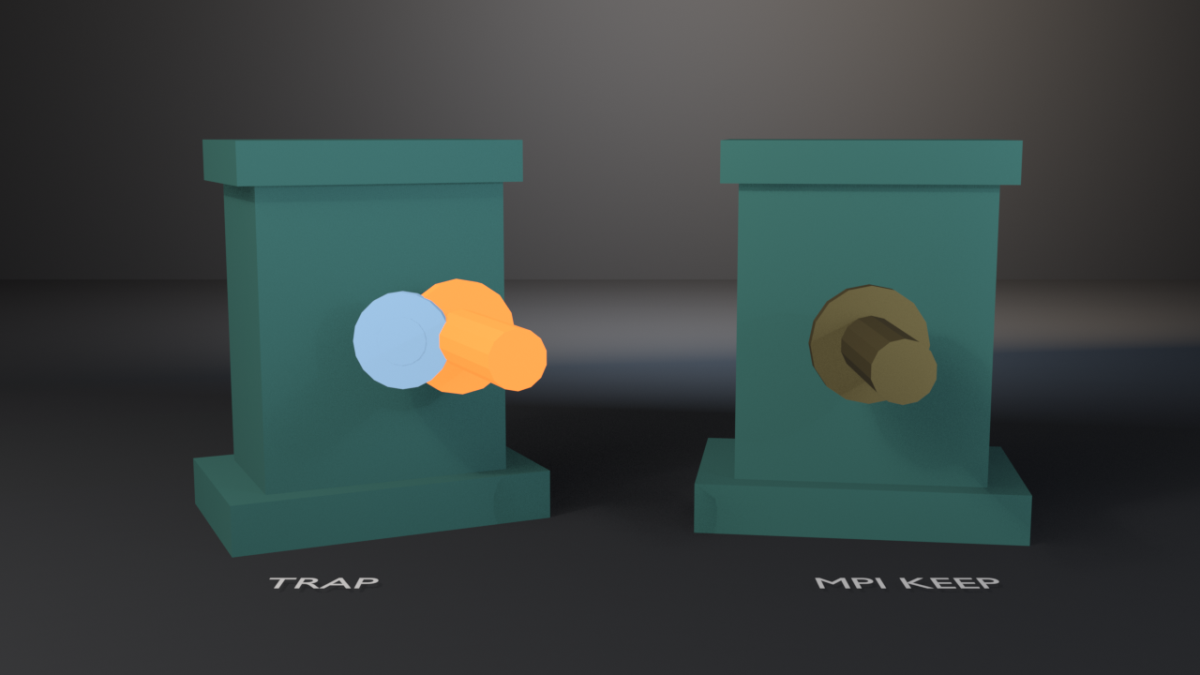
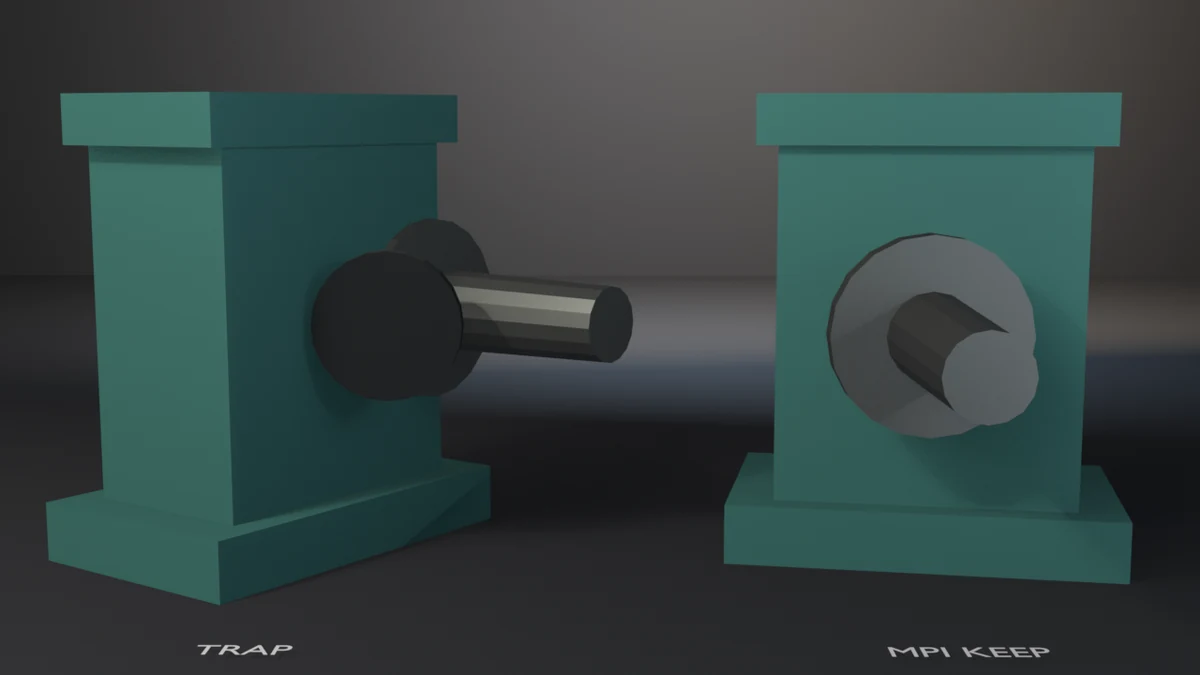
fix: rebuild prop-origin-transform accessory for thumbnail socket proof
Replace emissive orange/blue blob materials with a shared metal fitting and
a deep shadowed mount well so TRAP displacement reads at card scale.

diff --git a/docs/gallery/prop-origin-transform/index.html b/docs/gallery/prop-origin-transform/index.html
@@ -190,7 +190,7 @@
 <ul><li><strong>Stale <code>matrix_world</code>.</strong> After a location edit, <code>matrix_world</code> is unchanged until <code>view_layer.update()</code> (same half of the orrery contract).</li><li><strong>Scale apply via data API.</strong> Non-uniform scale baked into verts; <code>obj.scale == (1,1,1)</code> exactly afterward.</li><li><strong>Origin at base center.</strong> Local bbox <code>min.z == 0</code>, XY centered; world AABB delta across the bake is <strong>0</strong> (gate <code>1e-5</code>).</li><li><strong>Bare-parent trap.</strong> Parenting the accessory without MPI jumps it (~0.43 m measured); setting <code>matrix_parent_inverse</code> restores world location (err ~3e-8).</li></ul>
 <p><strong>What each check catches on failure:</strong> skipping scale apply leaves non-identity scale; skipping origin bake leaves <code>min.z ≈ -0.756</code>; skipping MPI leaves the accessory teleported.</p>
 <p><strong>Version witness:</strong> byte-identical numbers on Blender 4.5.11 LTS and 5.1.2.</p>
-<p>The render is a dual panel: left <strong>TRAP</strong> (bare parent — flanged conduit teleports off an empty mount socket, hazard material) vs right <strong>MPI KEEP</strong> (flange seated in the socket), with emissive origin markers at each pedestal&#x27;s base. Check closed forms are unchanged; the flange/socket are render form only.</p>
+<p>The render is a dual panel: left <strong>TRAP</strong> (bare parent — flanged conduit teleports off a deep shadowed mount socket) vs right <strong>MPI KEEP</strong> (same metal fitting seated in the socket), with emissive origin markers at each pedestal&#x27;s base. Accessory and pedestal stay in one material family so displacement — not color — carries the proof. Check closed forms are unchanged.</p>
 <h2>Run</h2>
 <pre><code>blender --background --python prop_origin_transform.py --
 blender --background --python prop_origin_transform.py -- --output origin.png
@@ -315,40 +315,40 @@ JUMP_MIN = <span class="n">0.05</span>
 
 
 <span class="k">def</span> build_accessory_mesh():
-    <span class="s">&quot;&quot;&quot;Flanged conduit stub — reads as a bolted part, not a stray cylinder.&quot;&quot;&quot;</span>
+    <span class="s">&quot;&quot;&quot;Flanged conduit stub — short pipe + mounting flange + bolt heads.&quot;&quot;&quot;</span>
     me = bpy.data.meshes.new(<span class="s">&quot;Conduit&quot;</span>)
     bm = bmesh.new()
     <span class="k">try</span>:
-        <span class="c"># Barrel along +Y (away from prop face when mounted)</span>
-        bmesh.ops.create_cone(
-            bm, cap_ends=<span class="k">True</span>, segments=<span class="n">14</span>, radius1=<span class="n">0.08</span>, radius2=<span class="n">0.08</span>, depth=<span class="n">0.42</span>,
+        <span class="c"># Barrel along +Y (away from prop face when mounted); origin at flange face</span>
+        barrel = bmesh.ops.create_cone(
+            bm, cap_ends=<span class="k">True</span>, segments=<span class="n">16</span>, radius1=<span class="n">0.09</span>, radius2=<span class="n">0.08</span>, depth=<span class="n">0.48</span>,
         )
         bmesh.ops.rotate(
-            bm, verts=bm.verts, cent=(<span class="n">0</span>, <span class="n">0</span>, <span class="n">0</span>),
+            bm, verts=barrel[<span class="s">&quot;verts&quot;</span>], cent=(<span class="n">0</span>, <span class="n">0</span>, <span class="n">0</span>),
             matrix=Matrix.Rotation(math.radians(<span class="n">90</span>), <span class="n">4</span>, <span class="s">&quot;X&quot;</span>),
         )
-        bmesh.ops.translate(bm, vec=(<span class="n">0.0</span>, -<span class="n">0.21</span>, <span class="n">0.0</span>), verts=bm.verts)
-        <span class="c"># Mounting flange at the prop-facing end</span>
-        ret = bmesh.ops.create_cone(
-            bm, cap_ends=<span class="k">True</span>, segments=<span class="n">16</span>, radius1=<span class="n">0.16</span>, radius2=<span class="n">0.16</span>, depth=<span class="n">0.04</span>,
+        bmesh.ops.translate(bm, vec=(<span class="n">0.0</span>, -<span class="n">0.24</span>, <span class="n">0.0</span>), verts=barrel[<span class="s">&quot;verts&quot;</span>])
+        <span class="c"># Thick mounting flange at the prop-facing (+Y local before rotate → y≈0)</span>
+        flange = bmesh.ops.create_cone(
+            bm, cap_ends=<span class="k">True</span>, segments=<span class="n">20</span>, radius1=<span class="n">0.20</span>, radius2=<span class="n">0.20</span>, depth=<span class="n">0.06</span>,
         )
         bmesh.ops.rotate(
-            bm, verts=ret[<span class="s">&quot;verts&quot;</span>], cent=(<span class="n">0</span>, <span class="n">0</span>, <span class="n">0</span>),
+            bm, verts=flange[<span class="s">&quot;verts&quot;</span>], cent=(<span class="n">0</span>, <span class="n">0</span>, <span class="n">0</span>),
             matrix=Matrix.Rotation(math.radians(<span class="n">90</span>), <span class="n">4</span>, <span class="s">&quot;X&quot;</span>),
         )
-        bmesh.ops.translate(bm, vec=(<span class="n">0.0</span>, <span class="n">0.02</span>, <span class="n">0.0</span>), verts=ret[<span class="s">&quot;verts&quot;</span>])
-        <span class="c"># Four bolt heads on the flange</span>
+        bmesh.ops.translate(bm, vec=(<span class="n">0.0</span>, <span class="n">0.03</span>, <span class="n">0.0</span>), verts=flange[<span class="s">&quot;verts&quot;</span>])
+        <span class="c"># Four bolt heads on the flange face (camera-visible when seated)</span>
         <span class="k">for</span> ang <span class="k">in</span> (<span class="n">45</span>, <span class="n">135</span>, <span class="n">225</span>, <span class="n">315</span>):
             rad = math.radians(ang)
-            bx, bz = <span class="n">0.11</span> * math.cos(rad), <span class="n">0.11</span> * math.sin(rad)
+            bx, bz = <span class="n">0.14</span> * math.cos(rad), <span class="n">0.14</span> * math.sin(rad)
             br = bmesh.ops.create_cone(
-                bm, cap_ends=<span class="k">True</span>, segments=<span class="n">8</span>, radius1=<span class="n">0.025</span>, radius2=<span class="n">0.025</span>, depth=<span class="n">0.03</span>,
+                bm, cap_ends=<span class="k">True</span>, segments=<span class="n">8</span>, radius1=<span class="n">0.032</span>, radius2=<span class="n">0.032</span>, depth=<span class="n">0.04</span>,
             )
             bmesh.ops.rotate(
                 bm, verts=br[<span class="s">&quot;verts&quot;</span>], cent=(<span class="n">0</span>, <span class="n">0</span>, <span class="n">0</span>),
                 matrix=Matrix.Rotation(math.radians(<span class="n">90</span>), <span class="n">4</span>, <span class="s">&quot;X&quot;</span>),
             )
-            bmesh.ops.translate(bm, vec=(bx, <span class="n">0.05</span>, bz), verts=br[<span class="s">&quot;verts&quot;</span>])
+            bmesh.ops.translate(bm, vec=(bx, <span class="n">0.07</span>, bz), verts=br[<span class="s">&quot;verts&quot;</span>])
         bm.to_mesh(me)
     <span class="k">finally</span>:
         bm.free()
@@ -356,19 +356,24 @@ JUMP_MIN = <span class="n">0.05</span>
 
 
 <span class="k">def</span> build_socket_mesh():
-    <span class="s">&quot;&quot;&quot;Empty mount collar left on the prop — the seat the accessory departed.&quot;&quot;&quot;</span>
+    <span class="s">&quot;&quot;&quot;Deep mount well — shadowed interior reads as the vacated seat.&quot;&quot;&quot;</span>
     me = bpy.data.meshes.new(<span class="s">&quot;Socket&quot;</span>)
     bm = bmesh.new()
     <span class="k">try</span>:
-        <span class="c"># Outer ring</span>
+        <span class="c"># Outer collar (matches flange OD)</span>
         bmesh.ops.create_cone(
-            bm, cap_ends=<span class="k">True</span>, segments=<span class="n">20</span>, radius1=<span class="n">0.18</span>, radius2=<span class="n">0.18</span>, depth=<span class="n">0.05</span>,
+            bm, cap_ends=<span class="k">True</span>, segments=<span class="n">24</span>, radius1=<span class="n">0.24</span>, radius2=<span class="n">0.24</span>, depth=<span class="n">0.07</span>,
         )
-        <span class="c"># Punch a visual recess by adding an inset darker disk slightly proud</span>
-        inner = bmesh.ops.create_cone(
-            bm, cap_ends=<span class="k">True</span>, segments=<span class="n">16</span>, radius1=<span class="n">0.09</span>, radius2=<span class="n">0.09</span>, depth=<span class="n">0.02</span>,
+        <span class="c"># Deep dark well — into the prop after rotate</span>
+        well = bmesh.ops.create_cone(
+            bm, cap_ends=<span class="k">True</span>, segments=<span class="n">20</span>, radius1=<span class="n">0.13</span>, radius2=<span class="n">0.11</span>, depth=<span class="n">0.18</span>,
         )
-        bmesh.ops.translate(bm, vec=(<span class="n">0.0</span>, <span class="n">0.0</span>, <span class="n">0.02</span>), verts=inner[<span class="s">&quot;verts&quot;</span>])
+        bmesh.ops.translate(bm, vec=(<span class="n">0.0</span>, <span class="n">0.0</span>, -<span class="n">0.06</span>), verts=well[<span class="s">&quot;verts&quot;</span>])
+        <span class="c"># Backstop disk (shadowed pocket floor)</span>
+        floor = bmesh.ops.create_cone(
+            bm, cap_ends=<span class="k">True</span>, segments=<span class="n">16</span>, radius1=<span class="n">0.10</span>, radius2=<span class="n">0.10</span>, depth=<span class="n">0.025</span>,
+        )
+        bmesh.ops.translate(bm, vec=(<span class="n">0.0</span>, <span class="n">0.0</span>, -<span class="n">0.16</span>), verts=floor[<span class="s">&quot;verts&quot;</span>])
         bmesh.ops.rotate(
             bm, verts=bm.verts, cent=(<span class="n">0</span>, <span class="n">0</span>, <span class="n">0</span>),
             matrix=Matrix.Rotation(math.radians(<span class="n">90</span>), <span class="n">4</span>, <span class="s">&quot;X&quot;</span>),
@@ -656,17 +661,13 @@ JUMP_MIN = <span class="n">0.05</span>
     bpy.ops.wm.read_factory_settings(use_empty=<span class="k">True</span>)
     sc = bpy.context.scene
 
-    <span class="c"># Teal pedestal — distinct from mesh-hygiene brass valve</span>
+    <span class="c"># Teal pedestal — accessory shares metal fitting in the same family (no</span>
+    <span class="c"># primary-color emission blobs). Empty socket is a dark recessed well.</span>
     body_m = make_material(<span class="s">&quot;BodyR&quot;</span>, (<span class="n">0.14</span>, <span class="n">0.48</span>, <span class="n">0.42</span>), rough=<span class="n">0.4</span>, metallic=<span class="n">0.55</span>)
-    acc_m = make_material(<span class="s">&quot;AccR&quot;</span>, (<span class="n">0.62</span>, <span class="n">0.48</span>, <span class="n">0.18</span>), rough=<span class="n">0.35</span>, metallic=<span class="n">0.85</span>)
-    trap_m = make_material(
-        <span class="s">&quot;TrapAcc&quot;</span>, (<span class="n">0.95</span>, <span class="n">0.28</span>, <span class="n">0.08</span>), rough=<span class="n">0.4</span>, metallic=<span class="n">0.35</span>,
-        emit=(<span class="n">1.0</span>, <span class="n">0.3</span>, <span class="n">0.05</span>), estr=<span class="n">1.1</span>,
-    )
-    sock_m = make_material(<span class="s">&quot;Socket&quot;</span>, (<span class="n">0.12</span>, <span class="n">0.14</span>, <span class="n">0.15</span>), rough=<span class="n">0.55</span>, metallic=<span class="n">0.4</span>)
+    acc_m = make_material(<span class="s">&quot;AccR&quot;</span>, (<span class="n">0.42</span>, <span class="n">0.44</span>, <span class="n">0.40</span>), rough=<span class="n">0.32</span>, metallic=<span class="n">0.88</span>)
+    sock_m = make_material(<span class="s">&quot;Socket&quot;</span>, (<span class="n">0.06</span>, <span class="n">0.07</span>, <span class="n">0.08</span>), rough=<span class="n">0.7</span>, metallic=<span class="n">0.2</span>)
     sock_empty_m = make_material(
-        <span class="s">&quot;SocketEmpty&quot;</span>, (<span class="n">0.35</span>, <span class="n">0.55</span>, <span class="n">0.75</span>), rough=<span class="n">0.45</span>, metallic=<span class="n">0.2</span>,
-        emit=(<span class="n">0.3</span>, <span class="n">0.5</span>, <span class="n">0.75</span>), estr=<span class="n">0.6</span>,
+        <span class="s">&quot;SocketEmpty&quot;</span>, (<span class="n">0.015</span>, <span class="n">0.018</span>, <span class="n">0.02</span>), rough=<span class="n">0.95</span>, metallic=<span class="n">0.0</span>,
     )
 
     <span class="k">def</span> make_prop(name, loc, rot_z=<span class="n">0.0</span>):
@@ -709,8 +710,8 @@ JUMP_MIN = <span class="n">0.05</span>
             bpy.context.view_layer.update()
         <span class="k">return</span> ob
 
-    left = make_prop(<span class="s">&quot;TrapProp&quot;</span>, (<span class="n">0.0</span>, <span class="n">0.0</span>, <span class="n">0.0</span>), rot_z=math.radians(<span class="n">25</span>))
-    right = make_prop(<span class="s">&quot;KeepProp&quot;</span>, (<span class="n">2.0</span>, <span class="n">0.0</span>, <span class="n">0.0</span>), rot_z=math.radians(-<span class="n">8</span>))
+    left = make_prop(<span class="s">&quot;TrapProp&quot;</span>, (<span class="n">0.0</span>, <span class="n">0.0</span>, <span class="n">0.0</span>), rot_z=math.radians(<span class="n">55</span>))
+    right = make_prop(<span class="s">&quot;KeepProp&quot;</span>, (<span class="n">2.2</span>, <span class="n">0.0</span>, <span class="n">0.0</span>), rot_z=math.radians(-<span class="n">10</span>))
 
     bpy.context.view_layer.update()
     left_front = left.matrix_world @ Vector((<span class="n">0.0</span>, -<span class="n">0.52</span>, <span class="n">0.78</span>))
@@ -719,10 +720,10 @@ JUMP_MIN = <span class="n">0.05</span>
     make_socket(<span class="s">&quot;TrapSocket&quot;</span>, left_front, sock_empty_m, parent=left)
     make_socket(<span class="s">&quot;KeepSocket&quot;</span>, right_front, sock_m, parent=right)
 
-    trap_acc = make_acc(<span class="s">&quot;TrapAcc&quot;</span>, left_front + Vector((<span class="n">0.0</span>, -<span class="n">0.08</span>, <span class="n">0.0</span>)), trap_m)
-    keep_acc = make_acc(<span class="s">&quot;KeepAcc&quot;</span>, right_front + Vector((<span class="n">0.0</span>, -<span class="n">0.08</span>, <span class="n">0.0</span>)), acc_m)
-    trap_acc.scale = (<span class="n">1.35</span>, <span class="n">1.35</span>, <span class="n">1.35</span>)
-    keep_acc.scale = (<span class="n">1.35</span>, <span class="n">1.35</span>, <span class="n">1.35</span>)
+    trap_acc = make_acc(<span class="s">&quot;TrapAcc&quot;</span>, left_front + Vector((<span class="n">0.0</span>, -<span class="n">0.05</span>, <span class="n">0.0</span>)), acc_m)
+    keep_acc = make_acc(<span class="s">&quot;KeepAcc&quot;</span>, right_front + Vector((<span class="n">0.0</span>, -<span class="n">0.05</span>, <span class="n">0.0</span>)), acc_m)
+    trap_acc.scale = (<span class="n">1.55</span>, <span class="n">1.55</span>, <span class="n">1.55</span>)
+    keep_acc.scale = (<span class="n">1.55</span>, <span class="n">1.55</span>, <span class="n">1.55</span>)
     bpy.context.view_layer.update()
 
     w_before = trap_acc.matrix_world.translation.copy()
@@ -736,28 +737,30 @@ JUMP_MIN = <span class="n">0.05</span>
     bpy.context.view_layer.update()
     print(
         <span class="s">f&quot;</span><span class="s">render_trap_jump=</span>{jumped:<span class="s">.4f</span>}<span class="s"> </span><span class="s">&quot;</span>
-        <span class="s">f&quot;</span><span class="s">acc_at=</span>{tuple(round(c, <span class="n">3</span>) <span class="k">for</span> c <span class="k">in</span> trap_acc.matrix_world.translation)}<span class="s">&quot;</span>
+        <span class="s">f&quot;</span><span class="s">acc_at=</span>{tuple(round(c, <span class="n">3</span>) <span class="k">for</span> c <span class="k">in</span> trap_acc.matrix_world.translation)}<span class="s"> </span><span class="s">&quot;</span>
+        <span class="s">f&quot;</span><span class="s">sock_at=</span>{tuple(round(c, <span class="n">3</span>) <span class="k">for</span> c <span class="k">in</span> left_front)}<span class="s"> </span><span class="s">&quot;</span>
+        <span class="s">f&quot;</span><span class="s">sep=</span>{(trap_acc.matrix_world.translation - left_front).length:<span class="s">.4f</span>}<span class="s">&quot;</span>
     )
 
     parent_keep_world(keep_acc, right)
     bpy.context.view_layer.update()
 
-    <span class="c"># Origin markers at base — small, so they don&#x27;t compete with the accessory</span>
     origin_marker(sc, Vector(left.matrix_world.translation))
     origin_marker(sc, Vector(right.matrix_world.translation))
 
-    placard(sc, <span class="s">&quot;TRAP&quot;</span>, (<span class="n">0.0</span>, -<span class="n">1.05</span>, <span class="n">0.02</span>), size=<span class="n">0.16</span>)
-    placard(sc, <span class="s">&quot;MPI KEEP&quot;</span>, (<span class="n">2.0</span>, -<span class="n">1.05</span>, <span class="n">0.02</span>), size=<span class="n">0.16</span>)
+    placard(sc, <span class="s">&quot;TRAP&quot;</span>, (<span class="n">0.15</span>, -<span class="n">1.25</span>, <span class="n">0.02</span>), size=<span class="n">0.11</span>)
+    placard(sc, <span class="s">&quot;MPI KEEP&quot;</span>, (<span class="n">2.1</span>, -<span class="n">1.25</span>, <span class="n">0.02</span>), size=<span class="n">0.11</span>)
 
     build_studio(sc)
 
     cam_data = bpy.data.cameras.new(<span class="s">&quot;Cam&quot;</span>)
-    cam_data.lens = <span class="n">42.0</span>
+    cam_data.lens = <span class="n">48.0</span>
     cam = bpy.data.objects.new(<span class="s">&quot;Cam&quot;</span>, cam_data)
-    cam.location = (<span class="n">0.95</span>, -<span class="n">5.6</span>, <span class="n">1.55</span>)
+    <span class="c"># Closer for fill; placards still clear the bottom</span>
+    cam.location = (<span class="n">1.15</span>, -<span class="n">5.35</span>, <span class="n">1.45</span>)
     sc.collection.objects.link(cam)
     aim = bpy.data.objects.new(<span class="s">&quot;Aim&quot;</span>, <span class="k">None</span>)
-    aim.location = (<span class="n">0.95</span>, <span class="n">0.0</span>, <span class="n">0.72</span>)
+    aim.location = (<span class="n">1.1</span>, <span class="n">0.0</span>, <span class="n">0.70</span>)
     sc.collection.objects.link(aim)
     tr = cam.constraints.new(<span class="s">&quot;TRACK_TO&quot;</span>)
     tr.target = aim

diff --git a/examples/prop-origin-transform/prop_origin_transform.py b/examples/prop-origin-transform/prop_origin_transform.py
@@ -110,40 +110,40 @@ def build_pedestal_mesh():
 
 
 def build_accessory_mesh():
-    """Flanged conduit stub — reads as a bolted part, not a stray cylinder."""
+    """Flanged conduit stub — short pipe + mounting flange + bolt heads."""
     me = bpy.data.meshes.new("Conduit")
     bm = bmesh.new()
     try:
-        # Barrel along +Y (away from prop face when mounted)
-        bmesh.ops.create_cone(
-            bm, cap_ends=True, segments=14, radius1=0.08, radius2=0.08, depth=0.42,
+        # Barrel along +Y (away from prop face when mounted); origin at flange face
+        barrel = bmesh.ops.create_cone(
+            bm, cap_ends=True, segments=16, radius1=0.09, radius2=0.08, depth=0.48,
         )
         bmesh.ops.rotate(
-            bm, verts=bm.verts, cent=(0, 0, 0),
+            bm, verts=barrel["verts"], cent=(0, 0, 0),
             matrix=Matrix.Rotation(math.radians(90), 4, "X"),
         )
-        bmesh.ops.translate(bm, vec=(0.0, -0.21, 0.0), verts=bm.verts)
-        # Mounting flange at the prop-facing end
-        ret = bmesh.ops.create_cone(
-            bm, cap_ends=True, segments=16, radius1=0.16, radius2=0.16, depth=0.04,
+        bmesh.ops.translate(bm, vec=(0.0, -0.24, 0.0), verts=barrel["verts"])
+        # Thick mounting flange at the prop-facing (+Y local before rotate → y≈0)
+        flange = bmesh.ops.create_cone(
+            bm, cap_ends=True, segments=20, radius1=0.20, radius2=0.20, depth=0.06,
         )
         bmesh.ops.rotate(
-            bm, verts=ret["verts"], cent=(0, 0, 0),
+            bm, verts=flange["verts"], cent=(0, 0, 0),
             matrix=Matrix.Rotation(math.radians(90), 4, "X"),
         )
-        bmesh.ops.translate(bm, vec=(0.0, 0.02, 0.0), verts=ret["verts"])
-        # Four bolt heads on the flange
+        bmesh.ops.translate(bm, vec=(0.0, 0.03, 0.0), verts=flange["verts"])
+        # Four bolt heads on the flange face (camera-visible when seated)
         for ang in (45, 135, 225, 315):
             rad = math.radians(ang)
-            bx, bz = 0.11 * math.cos(rad), 0.11 * math.sin(rad)
+            bx, bz = 0.14 * math.cos(rad), 0.14 * math.sin(rad)
             br = bmesh.ops.create_cone(
-                bm, cap_ends=True, segments=8, radius1=0.025, radius2=0.025, depth=0.03,
+                bm, cap_ends=True, segments=8, radius1=0.032, radius2=0.032, depth=0.04,
             )
             bmesh.ops.rotate(
                 bm, verts=br["verts"], cent=(0, 0, 0),
                 matrix=Matrix.Rotation(math.radians(90), 4, "X"),
             )
-            bmesh.ops.translate(bm, vec=(bx, 0.05, bz), verts=br["verts"])
+            bmesh.ops.translate(bm, vec=(bx, 0.07, bz), verts=br["verts"])
         bm.to_mesh(me)
     finally:
         bm.free()
@@ -151,19 +151,24 @@ def build_accessory_mesh():
 
 
 def build_socket_mesh():
-    """Empty mount collar left on the prop — the seat the accessory departed."""
+    """Deep mount well — shadowed interior reads as the vacated seat."""
     me = bpy.data.meshes.new("Socket")
     bm = bmesh.new()
     try:
-        # Outer ring
+        # Outer collar (matches flange OD)
         bmesh.ops.create_cone(
-            bm, cap_ends=True, segments=20, radius1=0.18, radius2=0.18, depth=0.05,
+            bm, cap_ends=True, segments=24, radius1=0.24, radius2=0.24, depth=0.07,
         )
-        # Punch a visual recess by adding an inset darker disk slightly proud
-        inner = bmesh.ops.create_cone(
-            bm, cap_ends=True, segments=16, radius1=0.09, radius2=0.09, depth=0.02,
+        # Deep dark well — into the prop after rotate
+        well = bmesh.ops.create_cone(
+            bm, cap_ends=True, segments=20, radius1=0.13, radius2=0.11, depth=0.18,
         )
-        bmesh.ops.translate(bm, vec=(0.0, 0.0, 0.02), verts=inner["verts"])
+        bmesh.ops.translate(bm, vec=(0.0, 0.0, -0.06), verts=well["verts"])
+        # Backstop disk (shadowed pocket floor)
+        floor = bmesh.ops.create_cone(
+            bm, cap_ends=True, segments=16, radius1=0.10, radius2=0.10, depth=0.025,
+        )
+        bmesh.ops.translate(bm, vec=(0.0, 0.0, -0.16), verts=floor["verts"])
         bmesh.ops.rotate(
             bm, verts=bm.verts, cent=(0, 0, 0),
             matrix=Matrix.Rotation(math.radians(90), 4, "X"),
@@ -451,17 +456,13 @@ def render_still(path, engine):
     bpy.ops.wm.read_factory_settings(use_empty=True)
     sc = bpy.context.scene
 
-    # Teal pedestal — distinct from mesh-hygiene brass valve
+    # Teal pedestal — accessory shares metal fitting in the same family (no
+    # primary-color emission blobs). Empty socket is a dark recessed well.
     body_m = make_material("BodyR", (0.14, 0.48, 0.42), rough=0.4, metallic=0.55)
-    acc_m = make_material("AccR", (0.62, 0.48, 0.18), rough=0.35, metallic=0.85)
-    trap_m = make_material(
-        "TrapAcc", (0.95, 0.28, 0.08), rough=0.4, metallic=0.35,
-        emit=(1.0, 0.3, 0.05), estr=1.1,
-    )
-    sock_m = make_material("Socket", (0.12, 0.14, 0.15), rough=0.55, metallic=0.4)
+    acc_m = make_material("AccR", (0.42, 0.44, 0.40), rough=0.32, metallic=0.88)
+    sock_m = make_material("Socket", (0.06, 0.07, 0.08), rough=0.7, metallic=0.2)
     sock_empty_m = make_material(
-        "SocketEmpty", (0.35, 0.55, 0.75), rough=0.45, metallic=0.2,
-        emit=(0.3, 0.5, 0.75), estr=0.6,
+        "SocketEmpty", (0.015, 0.018, 0.02), rough=0.95, metallic=0.0,
     )
 
     def make_prop(name, loc, rot_z=0.0):
@@ -504,8 +505,8 @@ def render_still(path, engine):
             bpy.context.view_layer.update()
         return ob
 
-    left = make_prop("TrapProp", (0.0, 0.0, 0.0), rot_z=math.radians(25))
-    right = make_prop("KeepProp", (2.0, 0.0, 0.0), rot_z=math.radians(-8))
+    left = make_prop("TrapProp", (0.0, 0.0, 0.0), rot_z=math.radians(55))
+    right = make_prop("KeepProp", (2.2, 0.0, 0.0), rot_z=math.radians(-10))
 
     bpy.context.view_layer.update()
     left_front = left.matrix_world @ Vector((0.0, -0.52, 0.78))
@@ -514,10 +515,10 @@ def render_still(path, engine):
     make_socket("TrapSocket", left_front, sock_empty_m, parent=left)
     make_socket("KeepSocket", right_front, sock_m, parent=right)
 
-    trap_acc = make_acc("TrapAcc", left_front + Vector((0.0, -0.08, 0.0)), trap_m)
-    keep_acc = make_acc("KeepAcc", right_front + Vector((0.0, -0.08, 0.0)), acc_m)
-    trap_acc.scale = (1.35, 1.35, 1.35)
-    keep_acc.scale = (1.35, 1.35, 1.35)
+    trap_acc = make_acc("TrapAcc", left_front + Vector((0.0, -0.05, 0.0)), acc_m)
+    keep_acc = make_acc("KeepAcc", right_front + Vector((0.0, -0.05, 0.0)), acc_m)
+    trap_acc.scale = (1.55, 1.55, 1.55)
+    keep_acc.scale = (1.55, 1.55, 1.55)
     bpy.context.view_layer.update()
 
     w_before = trap_acc.matrix_world.translation.copy()
@@ -531,28 +532,30 @@ def render_still(path, engine):
     bpy.context.view_layer.update()
     print(
         f"render_trap_jump={jumped:.4f} "
-        f"acc_at={tuple(round(c, 3) for c in trap_acc.matrix_world.translation)}"
+        f"acc_at={tuple(round(c, 3) for c in trap_acc.matrix_world.translation)} "
+        f"sock_at={tuple(round(c, 3) for c in left_front)} "
+        f"sep={(trap_acc.matrix_world.translation - left_front).length:.4f}"
     )
 
     parent_keep_world(keep_acc, right)
     bpy.context.view_layer.update()
 
-    # Origin markers at base — small, so they don't compete with the accessory
     origin_marker(sc, Vector(left.matrix_world.translation))
     origin_marker(sc, Vector(right.matrix_world.translation))
 
-    placard(sc, "TRAP", (0.0, -1.05, 0.02), size=0.16)
-    placard(sc, "MPI KEEP", (2.0, -1.05, 0.02), size=0.16)
+    placard(sc, "TRAP", (0.15, -1.25, 0.02), size=0.11)
+    placard(sc, "MPI KEEP", (2.1, -1.25, 0.02), size=0.11)
 
     build_studio(sc)
 
     cam_data = bpy.data.cameras.new("Cam")
-    cam_data.lens = 42.0
+    cam_data.lens = 48.0
     cam = bpy.data.objects.new("Cam", cam_data)
-    cam.location = (0.95, -5.6, 1.55)
+    # Closer for fill; placards still clear the bottom
+    cam.location = (1.15, -5.35, 1.45)
     sc.collection.objects.link(cam)
     aim = bpy.data.objects.new("Aim", None)
-    aim.location = (0.95, 0.0, 0.72)
+    aim.location = (1.1, 0.0, 0.70)
     sc.collection.objects.link(aim)
     tr = cam.constraints.new("TRACK_TO")
     tr.target = aim

diff --git a/examples/prop-origin-transform/README.md b/examples/prop-origin-transform/README.md
@@ -37,9 +37,10 @@ MPI leaves the accessory teleported.
 **Version witness:** byte-identical numbers on Blender 4.5.11 LTS and 5.1.2.
 
 The render is a dual panel: left **TRAP** (bare parent — flanged conduit
-teleports off an empty mount socket, hazard material) vs right **MPI KEEP**
-(flange seated in the socket), with emissive origin markers at each pedestal's
-base. Check closed forms are unchanged; the flange/socket are render form only.
+teleports off a deep shadowed mount socket) vs right **MPI KEEP** (same metal
+fitting seated in the socket), with emissive origin markers at each pedestal's
+base. Accessory and pedestal stay in one material family so displacement — not
+color — carries the proof. Check closed forms are unchanged.
 
 ## Run
 